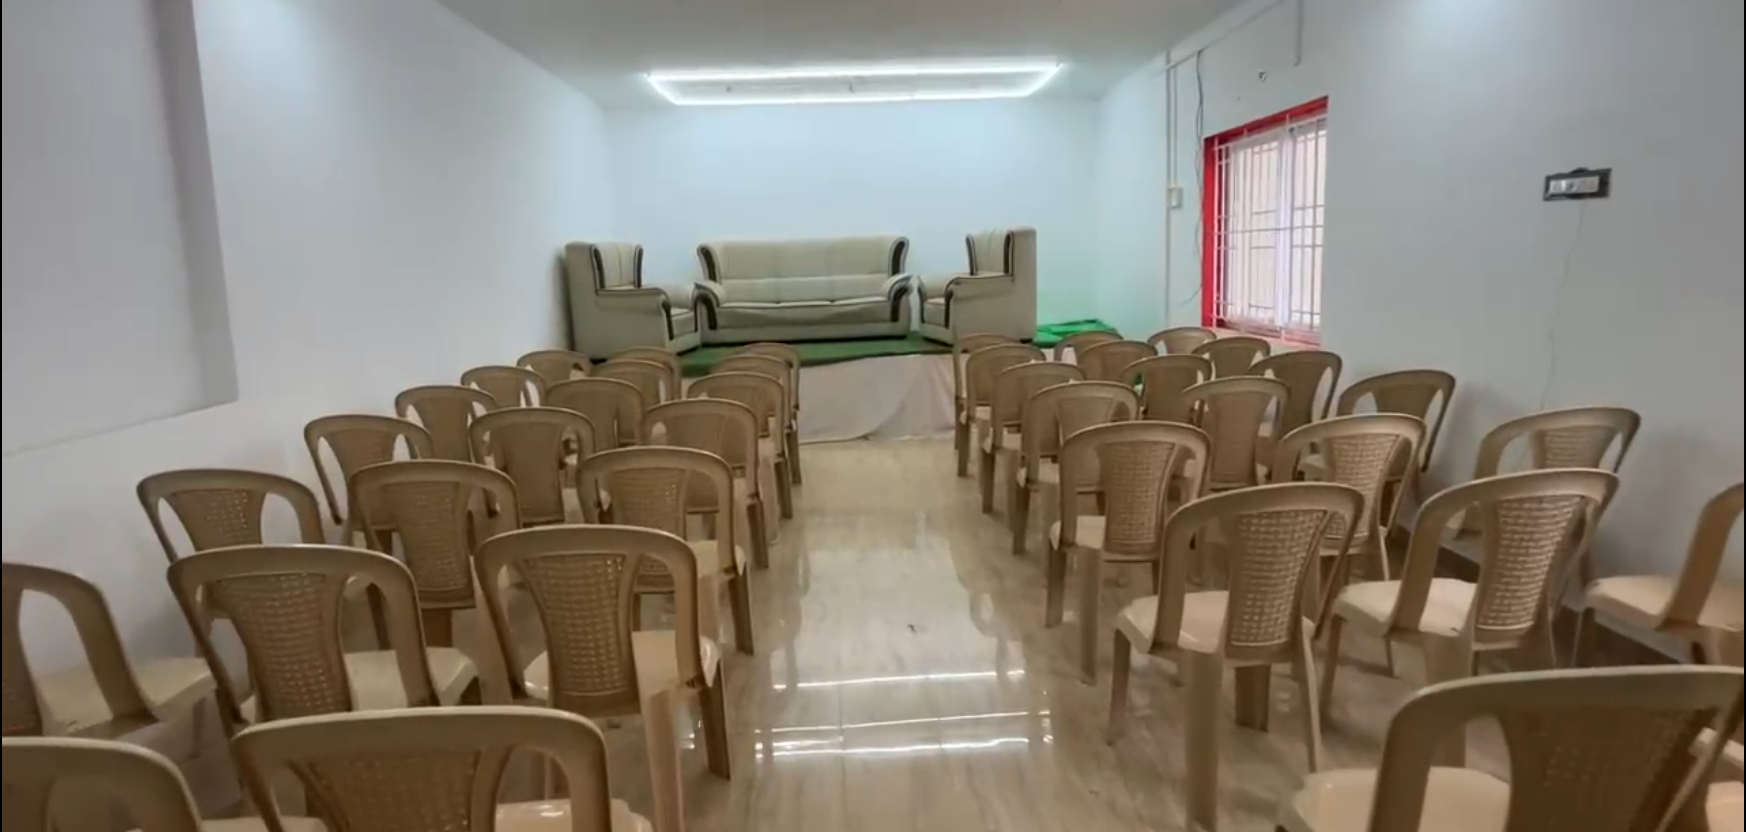
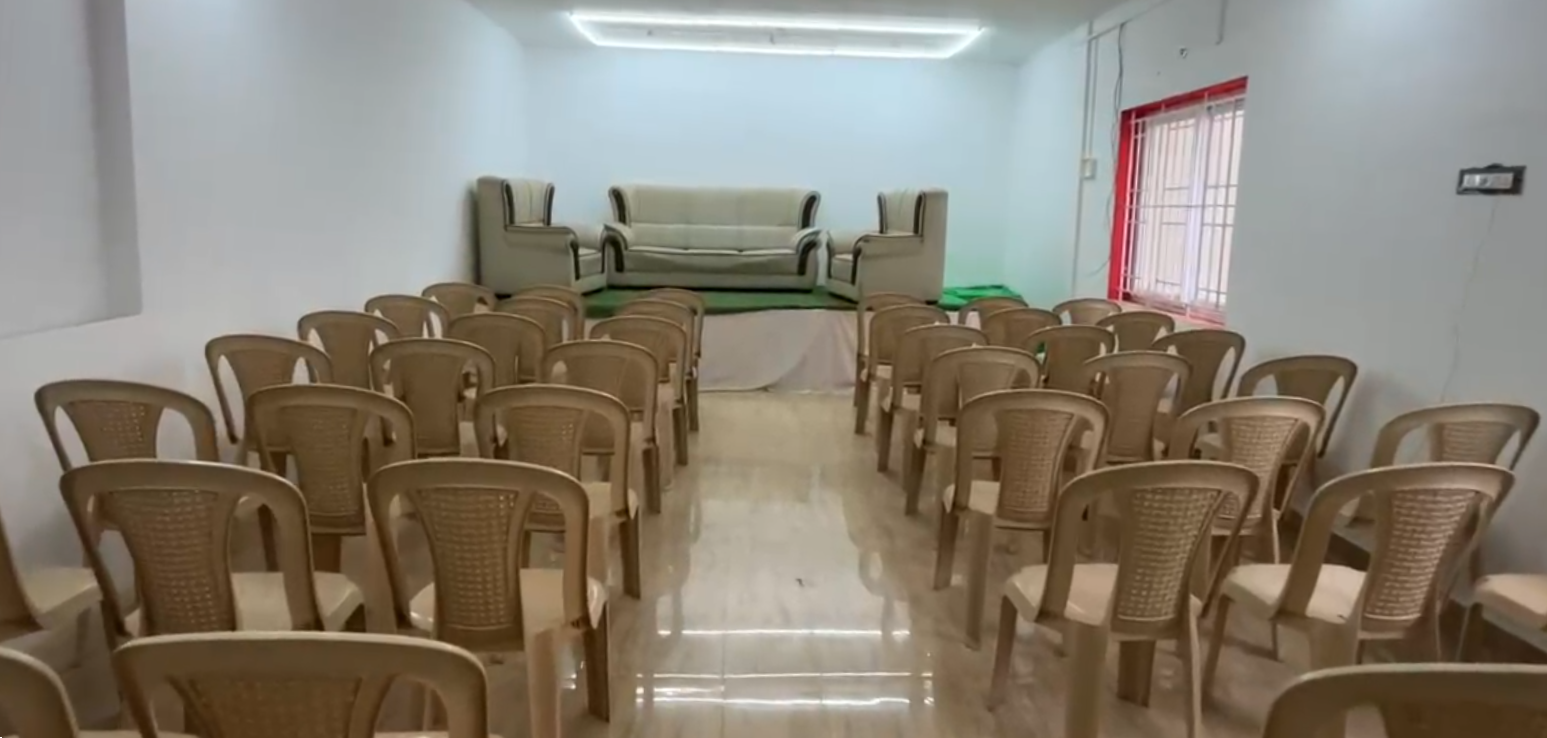
carousel images are changed

diff --git a/src/pages/Home.jsx b/src/pages/Home.jsx
@@ -5,11 +5,12 @@ import { CheckCircle } from "lucide-react";
 import { Link } from "react-router-dom";
 
 
-const tnImages = [
-  { src: "/1_0CyeRG3FH6cTjQNBU7dPzg.jpg", label: "For Marriage Hall" },
-  { src: "/hall-capacity-1170x658.jpg", label: "For Conference Hall" },
-  { src: "/wedding-venue-sterling-kodai-valley-banquet-hall-4_15_371906-162988849633205.jpeg", label: "For Corporate Hall" },
-  { src: "/1721733180_595x400.webp", label: "For Farewell Party Hall" },
+const Images = [
+  { src: "/hall-A/IMG-20250713-WA0010.jpg", label: "For Marriage Hall" },
+  { src: "/hall-A/IMG-20250713-WA0012.jpg", label: "For Conference Hall" },
+  { src: "hall-A/IMG-20250713-WA0017.jpg", label: "For Conference Hall" },
+  { src: "/hall-B/Screenshot 2025-07-15 185052_cpy.png", label: "For Farewell Party Hall" },
+  { src: "/hall-B/IMG-20250714-WA0017.jpg", label: "For Corporate Hall" },
 ];
 
 const services = [
@@ -35,7 +36,7 @@ function Home() {
             showStatus={false}
             className="rounded-lg overflow-hidden shadow-lg"
           >
-            {tnImages.map((img, idx) => (
+            {Images.map((img, idx) => (
               <div key={idx} className="relative">
                 <img
                   src={img.src}
